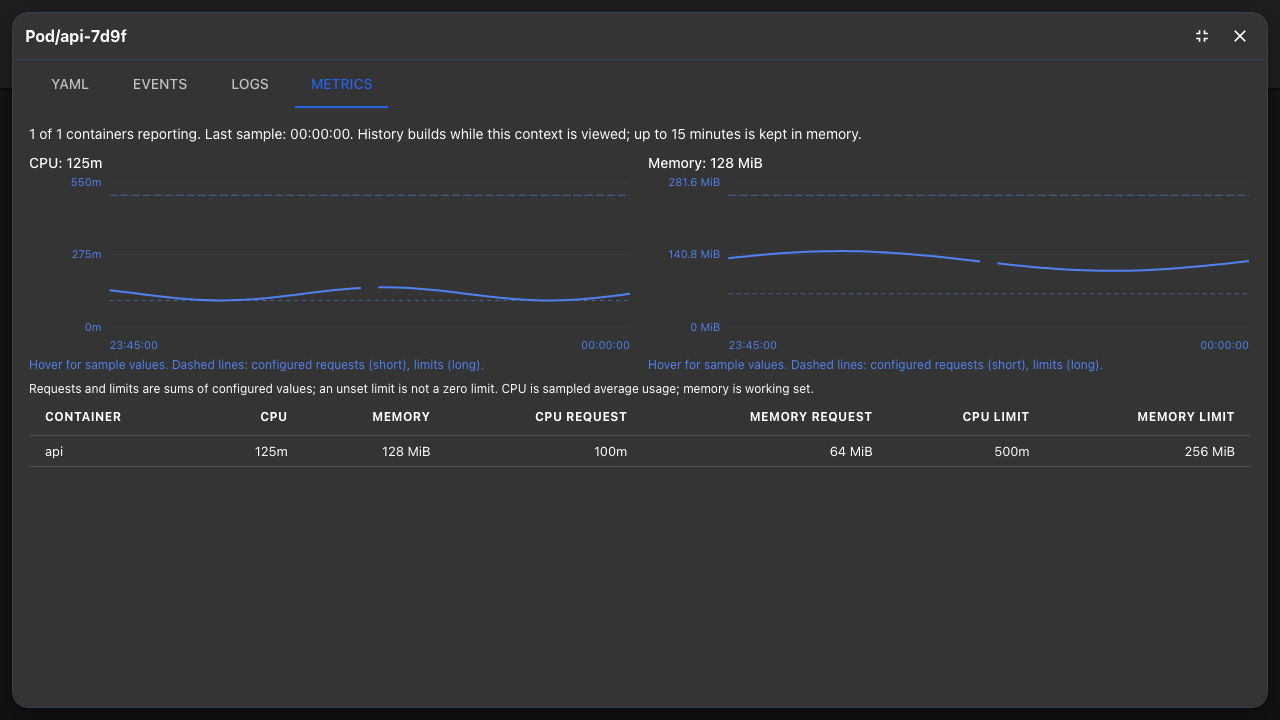
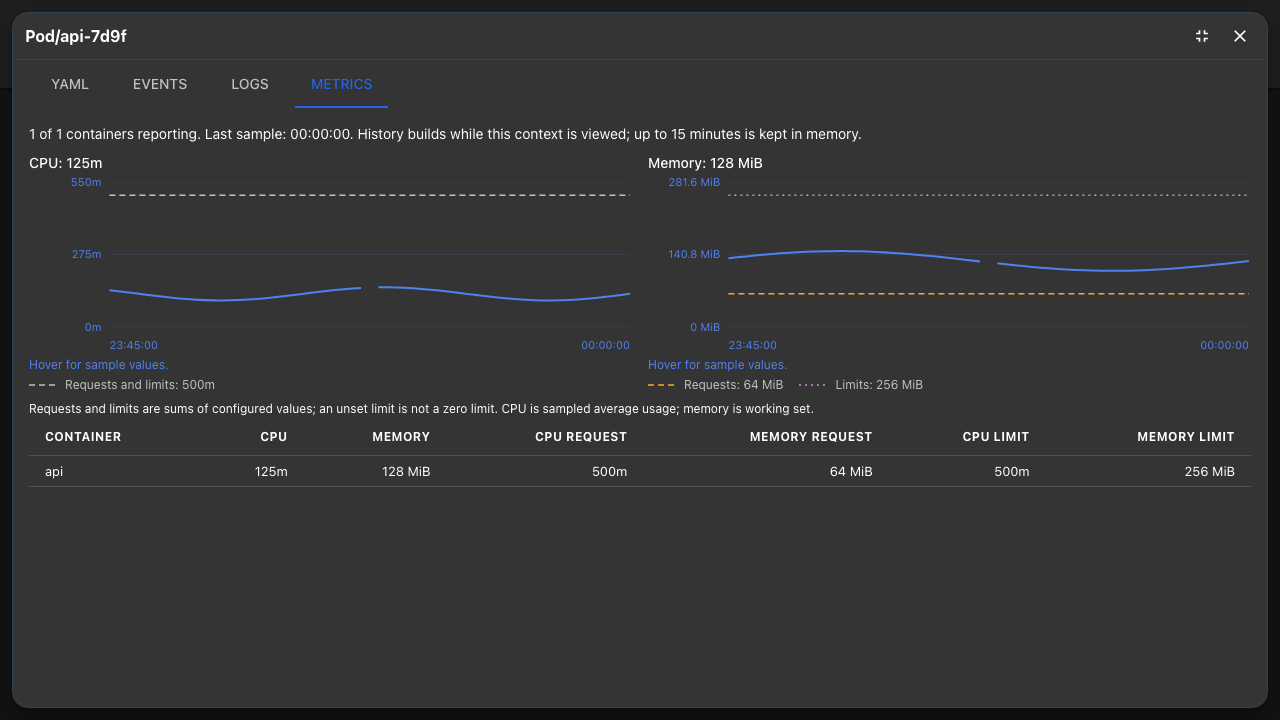
Clarify chart reference lines and refresh screenshots

Changed region(s): [[0.0312, 0.4889, 0.875, 0.6722], [0.875, 0.55, 0.9688, 0.6722], [0.75, 0.55, 0.8125, 0.6722]]

diff --git a/web/src/components/UsageChart.tsx b/web/src/components/UsageChart.tsx
@@ -1,5 +1,5 @@
 import { useState } from 'react'
-import { Box, Typography } from '@mui/material'
+import { Box, Typography, useTheme } from '@mui/material'
 import { formatUsage, historyDuration, type MetricPoint, type Usage } from '../metrics'
 
 export function chartSegments(points: MetricPoint[], metric: keyof Usage, start: number, end: number) {
@@ -21,6 +21,13 @@ export function chartSegments(points: MetricPoint[], metric: keyof Usage, start:
 export function UsageChart({ points, metric, now, compact = false, request = 0, limit = 0 }: {
   points: MetricPoint[]; metric: keyof Usage; now: number; compact?: boolean; request?: number; limit?: number
 }) {
+  const theme = useTheme()
+  const references = request > 0 && request === limit
+    ? [{ value: request, label: 'Requests and limits', color: theme.palette.text.secondary, dash: '6 4' }]
+    : [
+        { value: request, label: 'Requests', color: theme.palette.warning.main, dash: '6 4' },
+        { value: limit, label: 'Limits', color: theme.palette.secondary.main, dash: '2 4' },
+      ].filter(ref => ref.value > 0)
   const [hover, setHover] = useState<number | null>(null)
   const start = now - historyDuration
   const segments = chartSegments(points, metric, start, now)
@@ -50,9 +57,9 @@ export function UsageChart({ points, metric, now, compact = false, request = 0, 
           </g>)}
           <text x={left} y={height - 6} fill="currentColor" fontSize="11">{new Date(start).toLocaleTimeString()}</text>
           <text x={right} y={height - 6} textAnchor="end" fill="currentColor" fontSize="11">{new Date(now).toLocaleTimeString()}</text>
-          {[{ value: request, label: 'Configured requests' }, { value: limit, label: 'Configured limits' }].filter(ref => ref.value > 0).map(ref =>
-            <line key={ref.label} x1={left} x2={right} y1={y(ref.value)} y2={y(ref.value)} stroke="currentColor" strokeDasharray={ref.label.includes('requests') ? '4 4' : '8 3'} opacity="0.6">
-              <title>{ref.label}: {formatUsage(ref.value, metric)}</title>
+          {references.map(ref =>
+            <line key={ref.label} x1={left} x2={right} y1={y(ref.value)} y2={y(ref.value)} stroke={ref.color} strokeWidth="1.5" strokeDasharray={ref.dash} vectorEffect="non-scaling-stroke">
+              <title>Configured {ref.label.toLowerCase()}: {formatUsage(ref.value, metric)}</title>
             </line>)}
         </>}
         {segments.map((segment, index) => <g key={index}>
@@ -62,8 +69,14 @@ export function UsageChart({ points, metric, now, compact = false, request = 0, 
         {nearest && <circle cx={x(nearest.time)} cy={y(nearest.value)} r="4" fill="currentColor" />}
       </svg>
       {!compact && <Typography variant="caption" color="text.secondary" component="div" sx={{ minHeight: 20 }}>
-        {nearest ? `${new Date(nearest.time).toLocaleTimeString()}: ${formatUsage(nearest.value, metric)}` : 'Hover for sample values. Dashed lines: configured requests (short), limits (long).'}
+        {nearest ? `${new Date(nearest.time).toLocaleTimeString()}: ${formatUsage(nearest.value, metric)}` : 'Hover for sample values.'}
       </Typography>}
+      {!compact && <Box sx={{ display: 'flex', flexWrap: 'wrap', gap: 2, color: 'text.secondary' }}>
+        {references.map(ref => <Typography key={ref.label} variant="caption" sx={{ display: 'inline-flex', alignItems: 'center', gap: 0.75 }}>
+          <svg width="30" height="10" aria-hidden="true"><line x1="0" x2="30" y1="5" y2="5" stroke={ref.color} strokeWidth="1.5" strokeDasharray={ref.dash} /></svg>
+          {ref.label}: {formatUsage(ref.value, metric)}
+        </Typography>)}
+      </Box>}
     </Box>
   )
 }

diff --git a/web/e2e/app.spec.ts b/web/e2e/app.spec.ts
@@ -151,7 +151,10 @@ test.beforeEach(async ({ page }) => {
     })
   })
 
-  await page.route('**/api/metrics/**', route => route.fulfill({ json: { time: Date.now(), items: {}, pods: {} } }))
+  await page.route('**/api/metrics/**', route => {
+    const usage = workloadMetrics('pod-1', pod.metadata.name)
+    return route.fulfill({ json: { time: metricsNow, items: { 'pod-1': usage }, pods: { 'pod-1': usage } } })
+  })
 
   await page.route('**/api/contexts', async route => {
     await route.fulfill({
@@ -433,6 +436,8 @@ function workloadMetrics(uid: string, name: string, cpu = 125) {
 
 test('shows pod CPU/memory trends and a scrollable, maximizable Metrics tab', async ({ page }, testInfo) => {
   const usage = workloadMetrics('pod-1', pod.metadata.name)
+  usage.requests.cpu = usage.limits.cpu
+  usage.containers[0].requests.cpu = usage.limits.cpu
   await page.route('**/api/metrics/dev/pods', route => route.fulfill({ json: { time: metricsNow, items: { 'pod-1': usage }, pods: { 'pod-1': usage } } }))
   await page.goto('/view/dev/pods')
   const row = page.getByRole('row', { name: /api-7d9f/ })
@@ -444,6 +449,7 @@ test('shows pod CPU/memory trends and a scrollable, maximizable Metrics tab', as
   await expect(page.getByRole('table', { name: 'Container metrics' })).toContainText('api')
   await expect(page.getByText(/1 of 1 containers reporting/)).toBeVisible()
   await expect(page.locator('.details-panel').getByRole('img')).toHaveCount(2)
+  await expect(page.getByText('Requests and limits: 500m', { exact: true })).toBeVisible()
   const panel = page.locator('.details-panel-metrics')
   await expect.poll(async () => panel.evaluate(el => el.scrollHeight <= el.clientHeight)).toBe(true)
   await page.getByRole('button', { name: 'Maximize details' }).click()

diff --git a/web/src/components/UsageChart.test.tsx b/web/src/components/UsageChart.test.tsx
@@ -25,10 +25,20 @@ describe('usage charts', () => {
     const chart = screen.getByRole('img', { name: 'CPU usage over the last 15 minutes' })
     expect(container.querySelectorAll('polyline')).toHaveLength(2)
     expect(screen.getByText('Configured requests: 100m')).toBeInTheDocument()
+    const references = container.querySelectorAll('svg[role="img"] line[stroke-dasharray]')
+    expect(references).toHaveLength(2)
+    expect(references[0].getAttribute('stroke')).not.toBe(references[1].getAttribute('stroke'))
     fireEvent.pointerMove(chart, { clientX: 300 })
     expect(screen.queryByText(/Hover for sample values/)).not.toBeInTheDocument()
     fireEvent.pointerLeave(chart)
     expect(screen.getByText(/Hover for sample values/)).toBeInTheDocument()
+  })
+  it('merges coincident reference lines into one clearly labelled dashed line', () => {
+    const { container } = render(<UsageChart points={points} metric="cpu" now={now} request={1000} limit={1000} />)
+    expect(container.querySelectorAll('svg[role="img"] line[stroke-dasharray]')).toHaveLength(1)
+    expect(screen.getByText('Configured requests and limits: 1000m')).toBeInTheDocument()
+    expect(screen.getByText('Requests and limits: 1000m')).toBeInTheDocument()
+    expect(container.querySelector('svg[role="img"] line[stroke-dasharray]')).toHaveAttribute('vector-effect', 'non-scaling-stroke')
   })
   it('renders a compact sparkline and an empty chart without invalid SVG coordinates', () => {
     const { container } = render(<UsageChart points={[]} metric="memory" now={now} compact />)

diff --git a/README.md b/README.md
@@ -142,7 +142,7 @@ Next planned improvements include CLI flags for log level, snapshot persistence,
 
 ### CPU and memory trends
 
-Pods and Deployments show sortable CPU (millicores) and memory (MiB/GiB) columns with 15-minute sparklines. Select a row and open **Metrics** for larger charts, sampled values on hover, configured request/limit reference lines, and container or pod breakdowns. The panel can be maximized like the other detail tabs.
+Pods and Deployments show sortable CPU (millicores) and memory (MiB/GiB) columns with 15-minute sparklines. Select a row and open **Metrics** for larger charts, sampled values on hover, configured request/limit reference lines with labelled colour swatches, and container or pod breakdowns. Equal request and limit values share one dashed line so their patterns do not overlap. The panel can be maximized like the other detail tabs.
 
 Metrics use the Kubernetes Metrics API, the source behind `kubectl top`. The active kubeconfig user needs `list` on `pods.metrics.k8s.io` and core `pods` in the context's namespace. Deployment metrics additionally need `list` on `replicasets.apps` and `deployments.apps`. kube-watch does not install Metrics Server or change RBAC. Missing API access is shown as a warning while the resource list remains usable.
 
